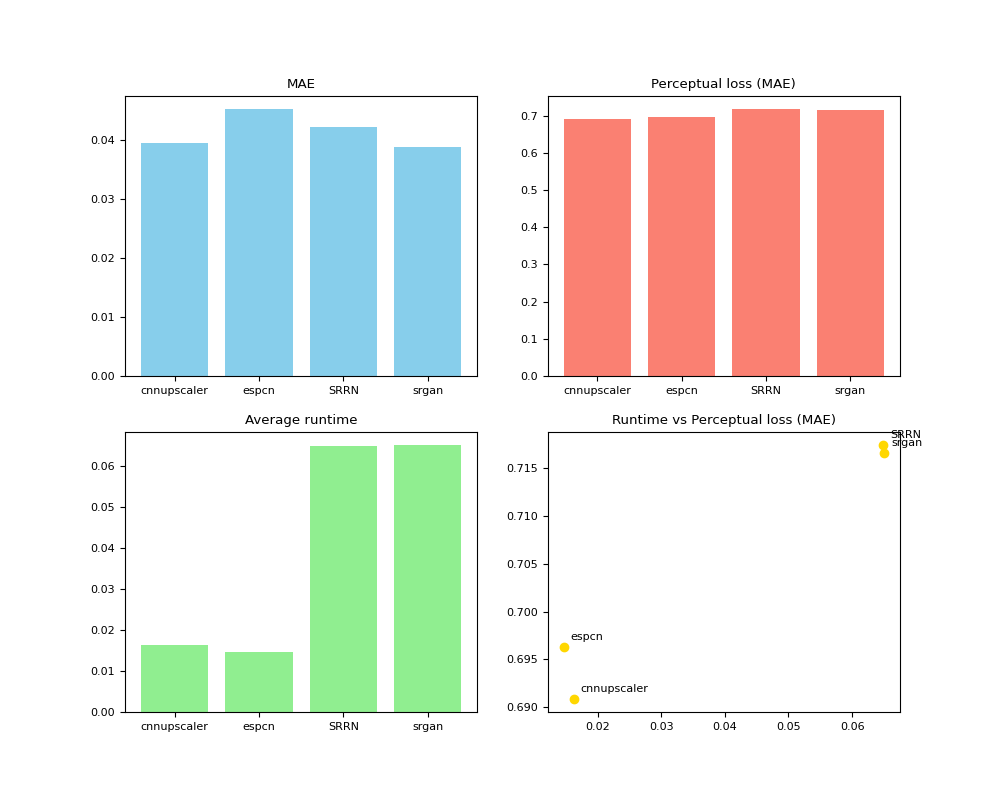
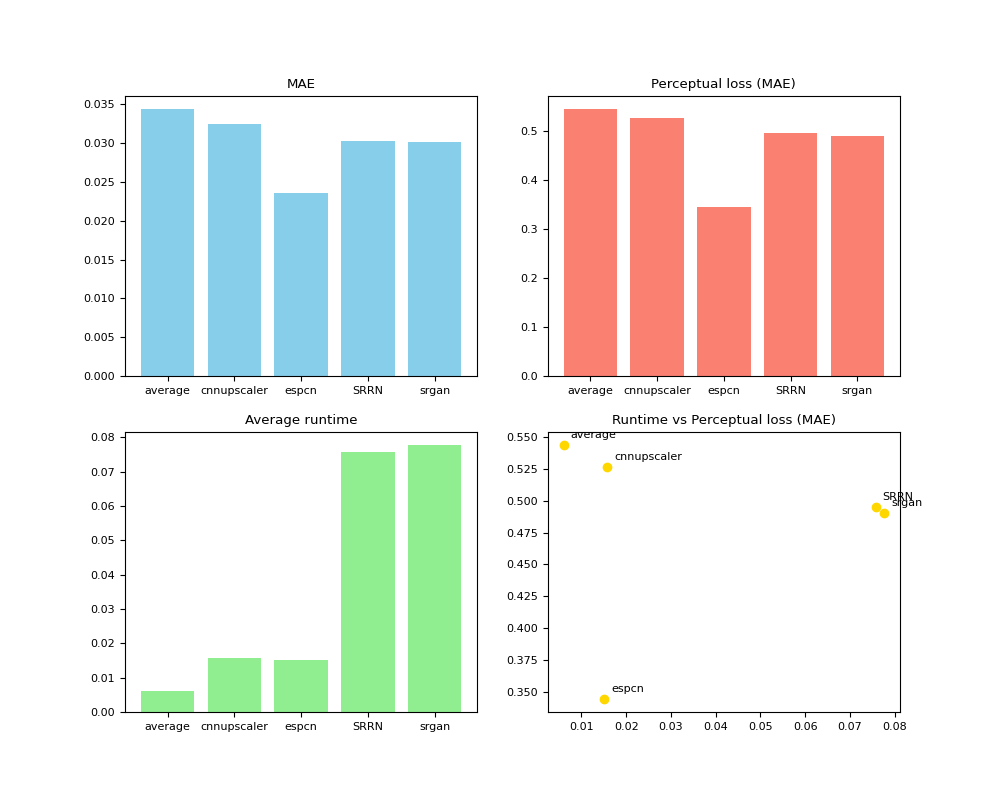
updated results with retrained models

diff --git a/src/validator.py b/src/validator.py
@@ -1,6 +1,7 @@
 import keras
 import tensorflow as tf
 import architectures as archs
+from architectures import *
 from image_processing import load_image_paths, load_and_preprocess
 import keras.applications.vgg19 as vgglib
 import matplotlib.pyplot as plt
@@ -11,6 +12,35 @@ import time
 import math
 import csv
 from pathlib import Path
+
+@keras.saving.register_keras_serializable()
+def psnr(y_true, y_pred):
+    """
+    Returns Peak Signal-to-Noise Ratio.
+
+    Args:
+        y_true: True image.
+        y_pred: Prediction.
+
+    Returns:
+        float: PSNR.
+    """
+    return tf.image.psnr(y_true, y_pred, max_val=1.0)
+
+@keras.saving.register_keras_serializable()
+def ssim(y_true, y_pred):
+    """
+    Returns Structural Similarity Index Measure.
+
+    Args:
+        y_true: True image.
+        y_pred: Prediction.
+
+    Returns:
+        float: SSIM.
+    """
+
+    return tf.image.ssim(y_true, y_pred, max_val=1.0)
 
 def load_vgg(path: str) -> keras.Model:
     """Loads VGG19 model from local memory if it exists; otherwise downloads it from the Internet.
@@ -42,7 +72,8 @@ def get_mae_loss(y_true, y_pred) -> float:
     Returns:
         float: MAE.
     """
-    return float(tf.reduce_mean(tf.abs(y_true - y_pred)))
+    y_true_resized = tf.image.resize(y_true, tf.shape(y_pred)[1:3])
+    return float(tf.reduce_mean(tf.abs(y_true_resized - y_pred)))
 
 
 @tf.function(reduce_retracing=True)
@@ -57,8 +88,10 @@ def get_perceptual_loss(y_true, y_pred, vgg_features) -> float:
     Returns:
         float: Perceptual loss.
     """
+    y_true_resized = tf.image.resize(y_true, tf.shape(y_pred)[1:3])
+
     # Scale to 255
-    y_true_scaled = y_true * 255.0
+    y_true_scaled = y_true_resized * 255.0
     y_pred_scaled = y_pred * 255.0
 
     # Preprocess for vgg
@@ -216,16 +249,17 @@ def save_metrics_csv(
             
 def main():
     # Define constants
-    BATCH_SIZE = 64
+    BATCH_SIZE = 1
     IMAGES_PATH = "data/DIV2K_train_HR/"
     MODEL_FOLDER_PATH = "models/"
     MODEL_NAMES = [
-        "cnnu_e30_sc4.keras",
-        "espcn_e30_sc4.keras",
-        "srrn_e30_sc4_rb8f64.keras",
-        "srgan_e30_sc4_rb8f64_l005.keras",
+        "average_x4.keras",
+        "cnnu_e100_x4.keras",
+        "espcn_e100_x2.keras",
+        "srrn_e100_b8f64_x4.keras",
+        "srgan_e100_b8f64_l005_x4.keras",
         ]
-    MAX_DATASET_SIZE = 1
+    MAX_DATASET_SIZE = 20
 
     # Set matplotlib font to be small
     plt.rcParams.update({"font.size": 8})
@@ -241,7 +275,7 @@ def main():
     model_labels = []
     for name in MODEL_NAMES:
         try:
-            model = keras.models.load_model(os.path.join(MODEL_FOLDER_PATH, name))
+            model = keras.models.load_model(os.path.join(MODEL_FOLDER_PATH, name), custom_objects={'psnr': psnr,'ssim': ssim})
             models.append(model)
             model_labels.append(model.name)
             
